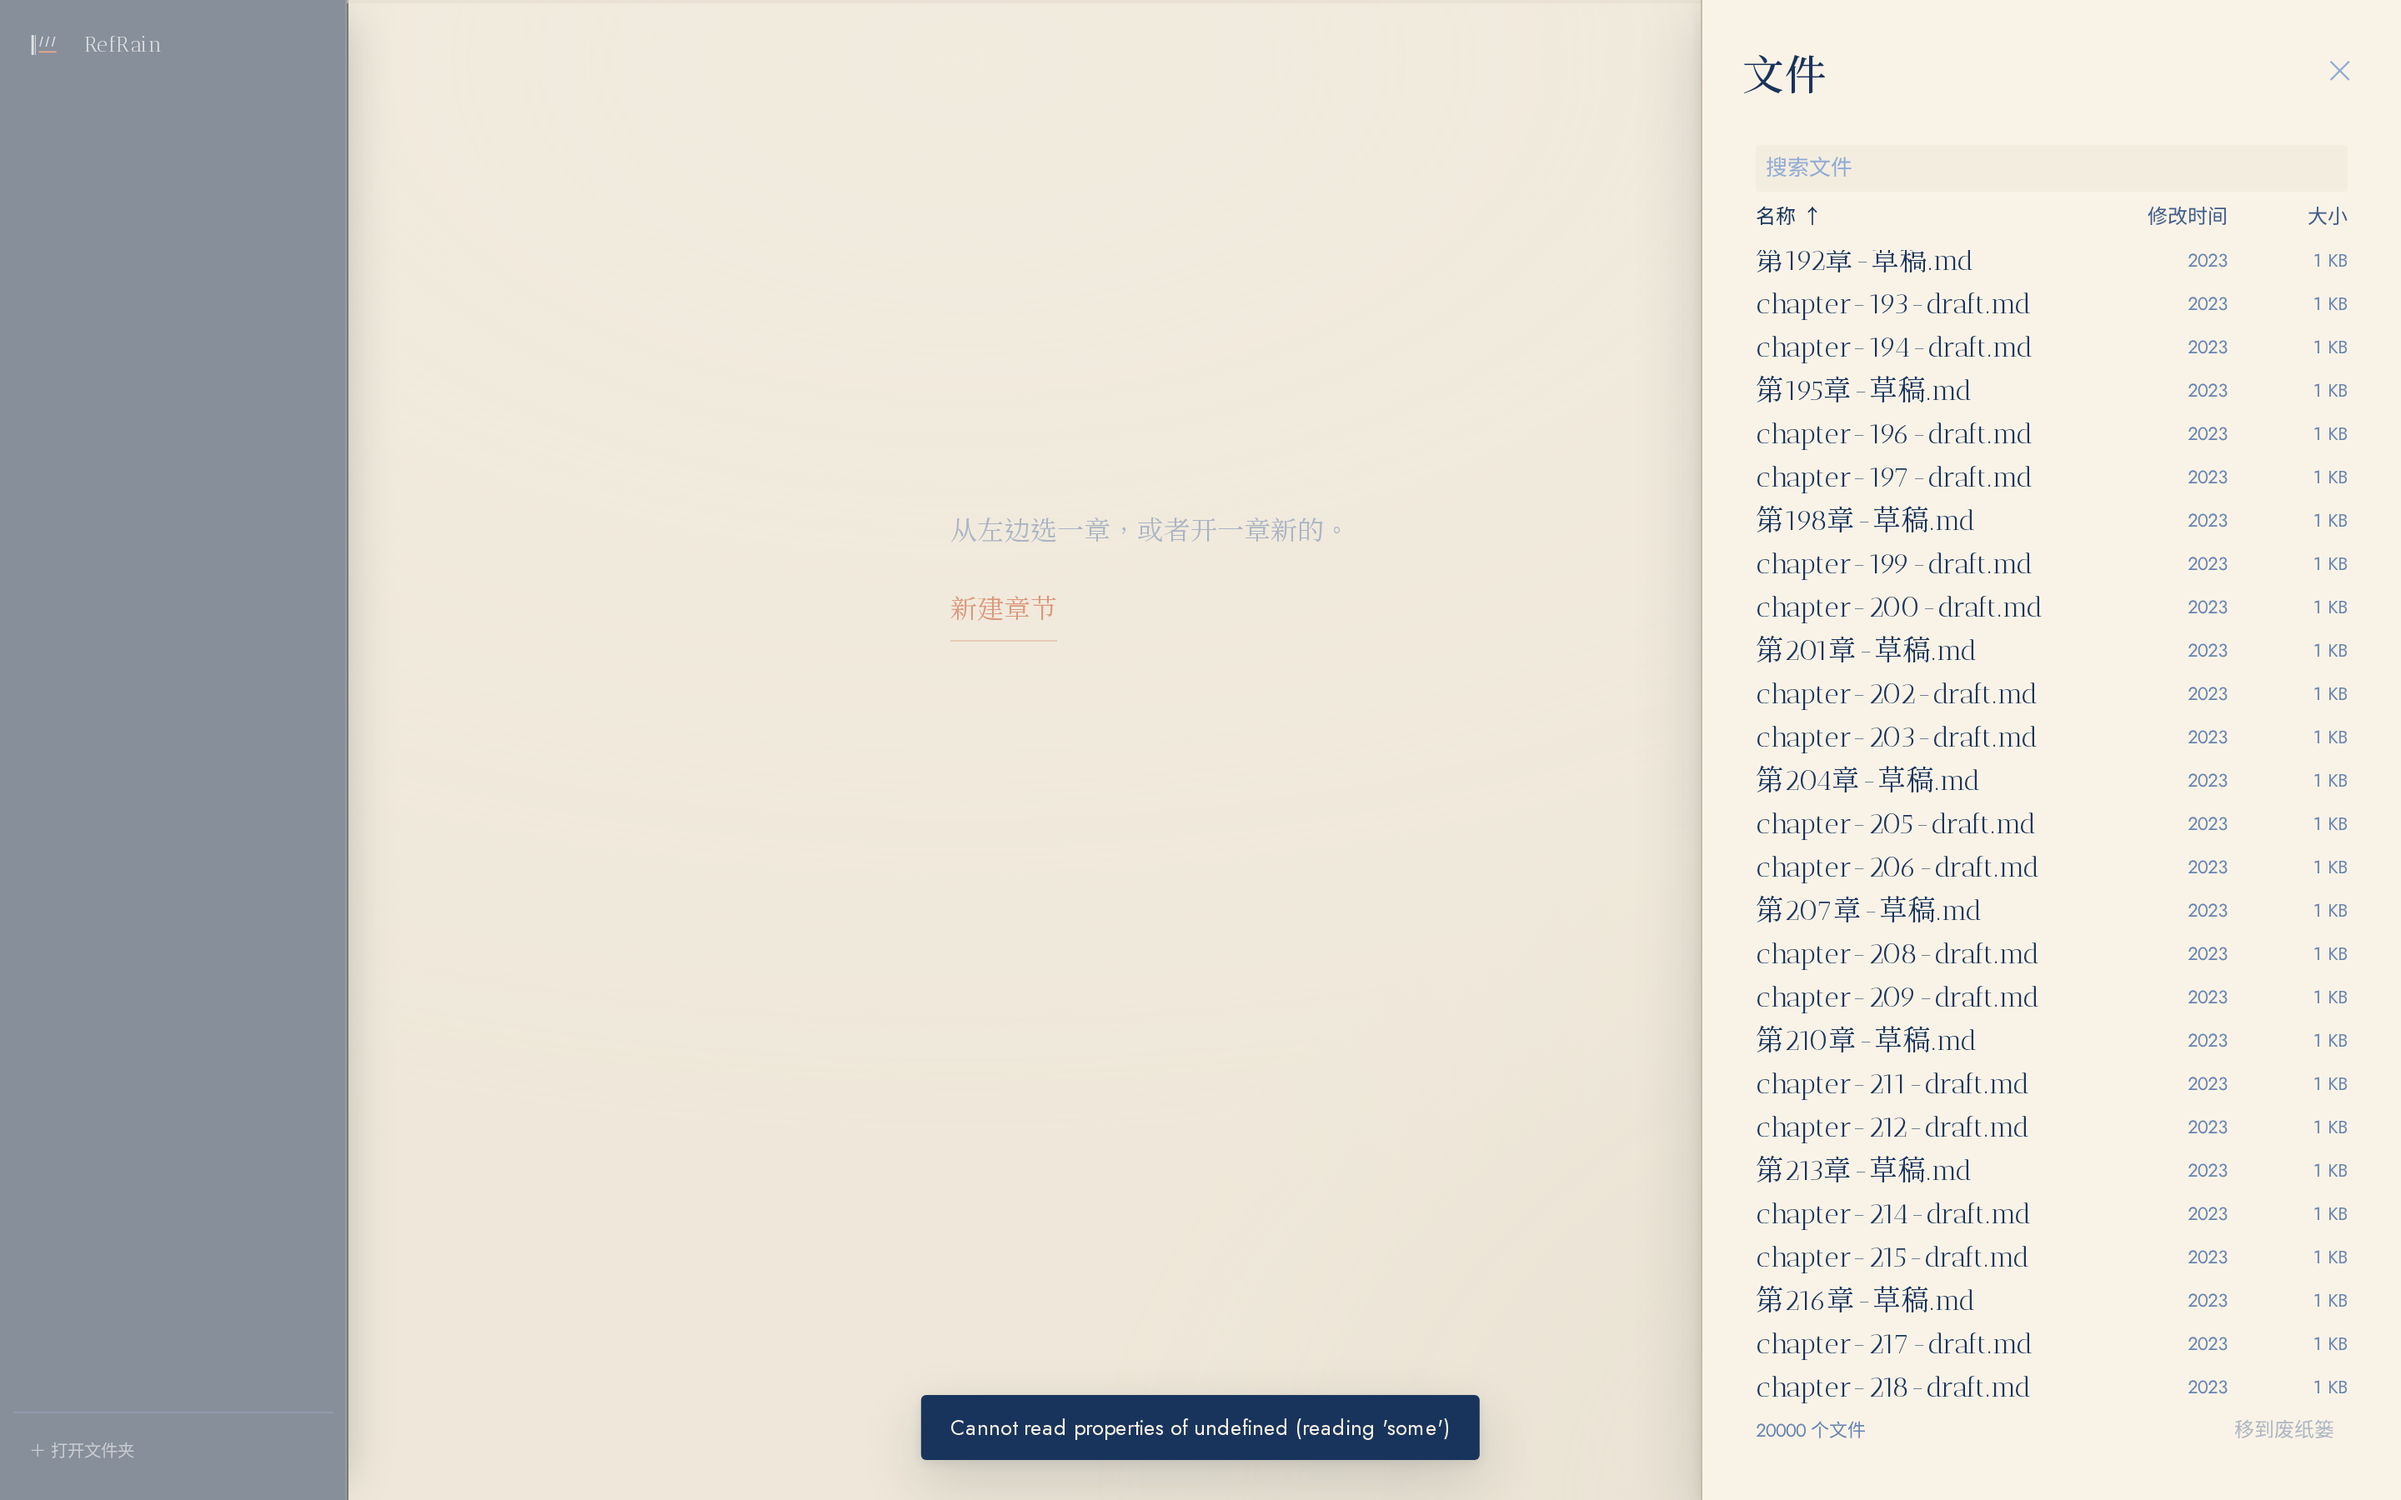
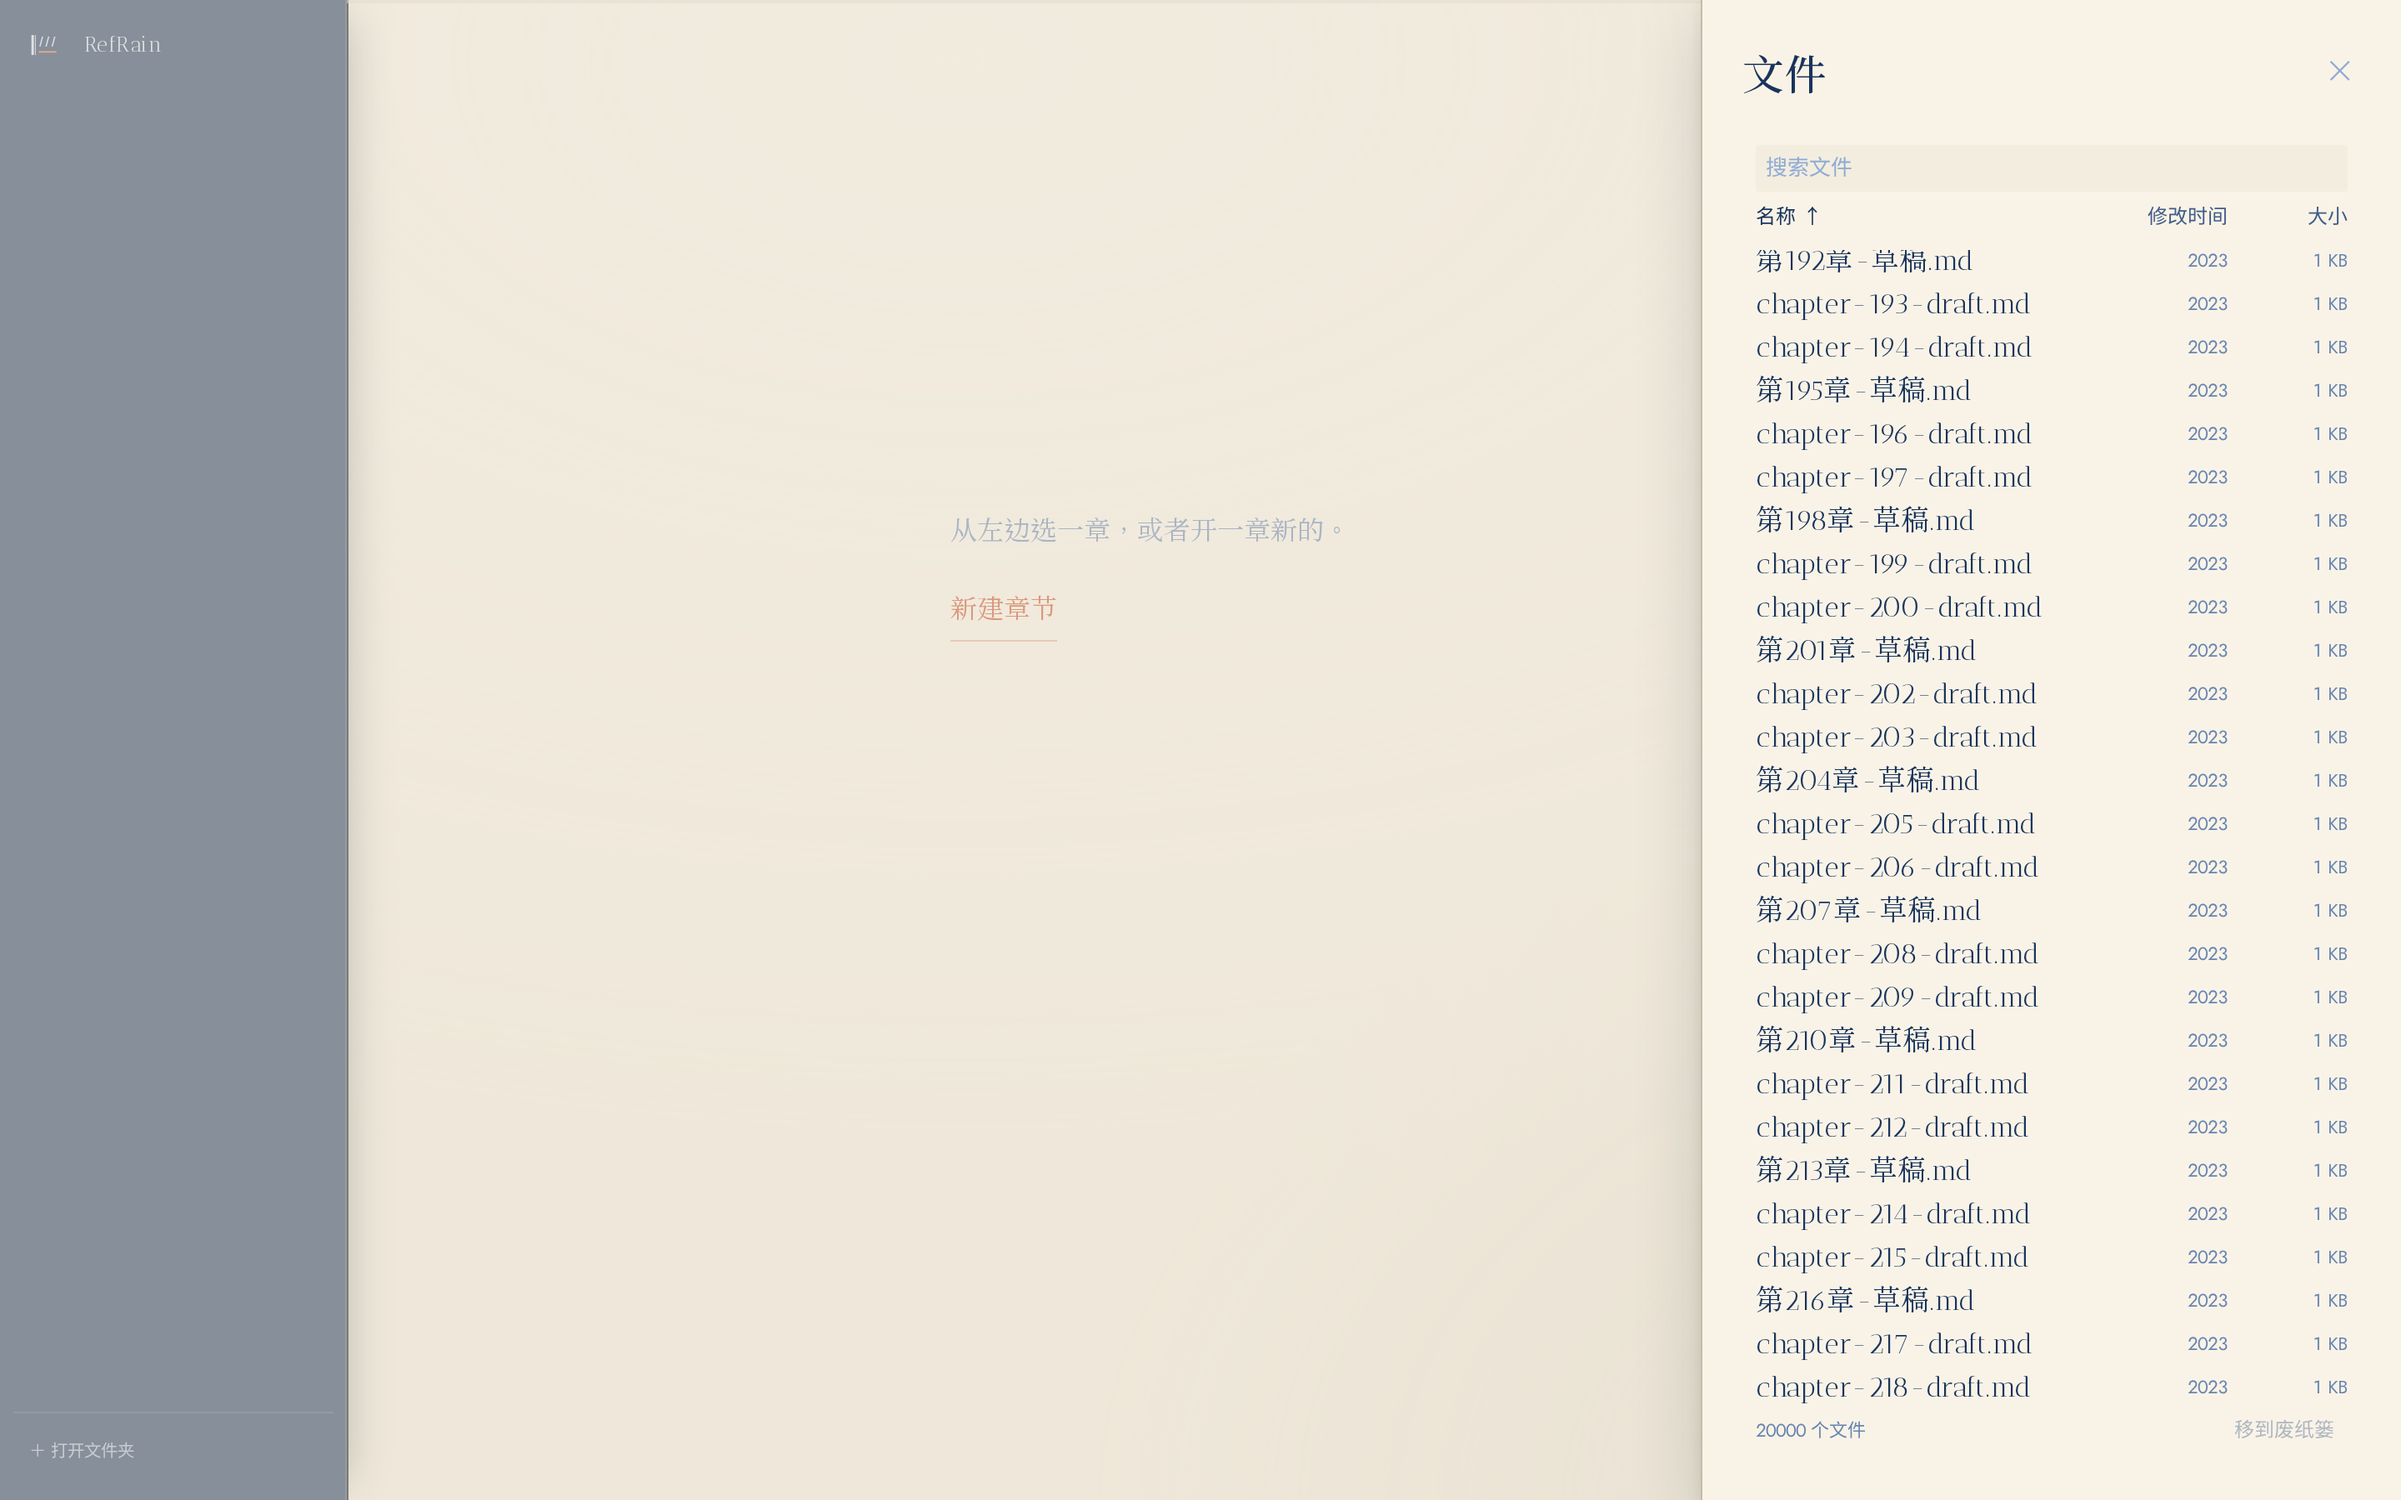
Assert that a stub answers the shape the bridge answers, not just the key
`loadWorkspace` returned a bare chapter array before multi-Root and four gate
stubs never followed it to `{ roots, chapters }`. `verify-files` crashed the
page it was driving — `Cannot read properties of undefined (reading 'find')`,
which reads as a product defect — and `verify-about`, `verify-seam` and
`verify-themes` passed, because none of them reached the manuscript. A gate
that passes on a screen the user will never see is covering the rot.

The existing parity gate could not see this: the key was present in all four.
It now also asserts the answer's shape for the bridge methods the interface
destructures. Injecting the old `async () => []` back into one stub turns it
red naming that file; before the fix it named three.

All four gates were run afterwards and pass on rendered pixels.

Changed region(s): [[0.375, 0.9022, 0.625, 0.9956]]

diff --git a/apps/desktop/scripts/verify-bridge-parity.ts b/apps/desktop/scripts/verify-bridge-parity.ts
@@ -197,6 +197,7 @@ const stubs = readdirSync(SCRIPTS)
     return [
       {
         name,
+        source,
         keys: new Set([...inheritedKeys, ...keysOf(source, literal)]),
         files:
           ownFiles === undefined
@@ -273,6 +274,42 @@ if (uncalled.length > 0) {
     `FAIL  ${uncalled.length} gate(s) exist but no workflow runs them: ${uncalled.join(", ")}`,
   );
   console.error("      Wire it into .github/workflows, or delete it.");
+  process.exit(1);
+}
+
+/*
+ * Parity of keys is not parity of answers.
+ *
+ * `loadWorkspace` returned a bare chapter array before multi-Root, and two
+ * stubs kept answering that way long after the real bridge began returning
+ * `{ roots, chapters }`. One gate crashed the page it was driving — reported
+ * as a product defect — and the other passed, because it never reached the
+ * manuscript and so was covering the rot rather than finding it.
+ *
+ * Keys cannot catch this: the key was present in both. The shape is what
+ * drifted, so the shape is what is asserted, for the bridge methods whose
+ * answers the interface destructures.
+ */
+const SHAPES: Record<string, RegExp> = {
+  loadWorkspace: /\{\s*roots\s*:|\(\{\s*roots/,
+};
+
+const wrongShape = stubs.flatMap(({ name, source }) =>
+  Object.entries(SHAPES).flatMap(([method, shape]) => {
+    const at = source.indexOf(`${method}:`);
+    if (at === -1) return [];
+    // The answer is whatever the stub's arrow function returns, up to the next
+    // top-level key. Long enough to hold an object literal, short enough not to
+    // run into an unrelated method that happens to match.
+    const answer = source.slice(at, at + 400);
+    return shape.test(answer) ? [] : [`${name}: ${method} does not answer { roots, … }`];
+  }),
+);
+
+if (wrongShape.length > 0) {
+  console.error(`FAIL  ${wrongShape.length} stub answer(s) have drifted from the real bridge:`);
+  for (const line of wrongShape) console.error(`  ${line}`);
+  console.error("      A stub that answers the wrong shape drives a screen no user will see.");
   process.exit(1);
 }
 

diff --git a/apps/desktop/scripts/verify-about.ts b/apps/desktop/scripts/verify-about.ts
@@ -40,7 +40,10 @@ await page.addInitScript(`
   Object.assign(window.refrain, {
     openProject: async () => "/p",
     loadProject: async () => [{ id: "01.md", title: "01", text: "黑暗中有人问。" }],
-    loadWorkspace: async () => [{ id: "01.md", title: "01", text: "黑暗中有人问。", root: "/p", path: "/p/01.md" }],
+    loadWorkspace: async () => ({
+      roots: [{ id: "p", path: "/p", name: "p" }],
+      chapters: [{ id: "01.md", title: "01", text: "黑暗中有人问。", rootId: "p", path: "/p/01.md" }],
+    }),
     createProject: async () => null, pathFor: () => "", resolveDrop: async () => null,
     fullscreen: async () => true, onCloseRequest: () => () => {}, saveChapter: async () => ({ ok: true, edits: [] }), listAgents: async () => [],
     addAgent: async () => ({}), removeAgent: async () => true, probeAgent: async () => ({ ok: true }),

diff --git a/apps/desktop/scripts/verify-seam.ts b/apps/desktop/scripts/verify-seam.ts
@@ -27,7 +27,7 @@ await page.addInitScript(`
   Object.assign(window.refrain, {
     openProject: async () => "/p", openFile: async () => null, createProject: async () => null,
     pathFor: () => "/p", resolveDrop: async (p) => p, fullscreen: async () => true, onCloseRequest: () => () => {},
-    loadProject: async () => [], loadWorkspace: async () => [],
+    loadProject: async () => [], loadWorkspace: async () => ({ roots: [], chapters: [] }),
     saveChapter: async () => ({ ok: true, edits: [] }), systemFonts: async () => [], listAgents: async () => [],
     probeAgent: async () => ({ ok: true }), removeAgent: async () => true, addAgent: async () => ({}),
     enqueue: async () => true, manifest: async () => [], send: async () => [],

diff --git a/apps/desktop/scripts/verify-themes.ts b/apps/desktop/scripts/verify-themes.ts
@@ -30,7 +30,7 @@ const browser = await launchBrowser();
 const page = await browser.newPage({ viewport: { width: 1440, height: 900 } });
 await page.addInitScript(`${BRIDGE_STUB}
 Object.assign(window.refrain, {
-  openProject: async () => "/p", loadProject: async () => [], loadWorkspace: async () => [],
+  openProject: async () => "/p", loadProject: async () => [], loadWorkspace: async () => ({ roots: [], chapters: [] }),
   createProject: async () => null, pathFor: () => "", resolveDrop: async () => null,
   fullscreen: async () => true, saveChapter: async () => ({ ok: true, edits: [] }),
   listAgents: async () => [], addAgent: async () => ({}), enqueue: async () => true,

diff --git a/apps/desktop/scripts/verify-files.ts b/apps/desktop/scripts/verify-files.ts
@@ -45,7 +45,7 @@ const bridge = `
     openFile: async () => null,
     createProject: async () => null,
     loadProject: async () => [],
-    loadWorkspace: async () => [],
+    loadWorkspace: async () => ({ roots: [], chapters: [] }),
     saveChapter: async () => ({ ok: true, edits: [] }),
     systemFonts: async () => [],
     pathFor: () => "",
